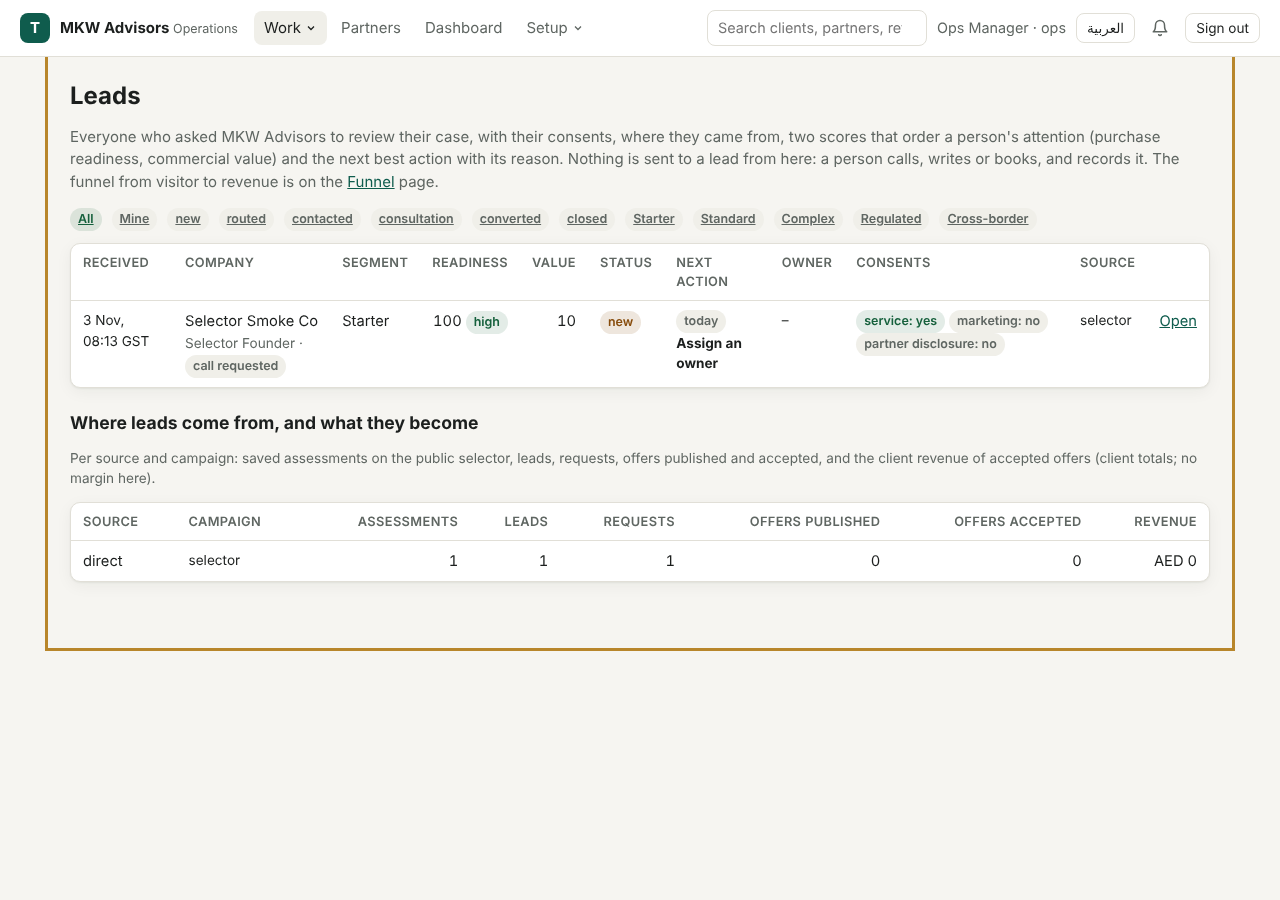
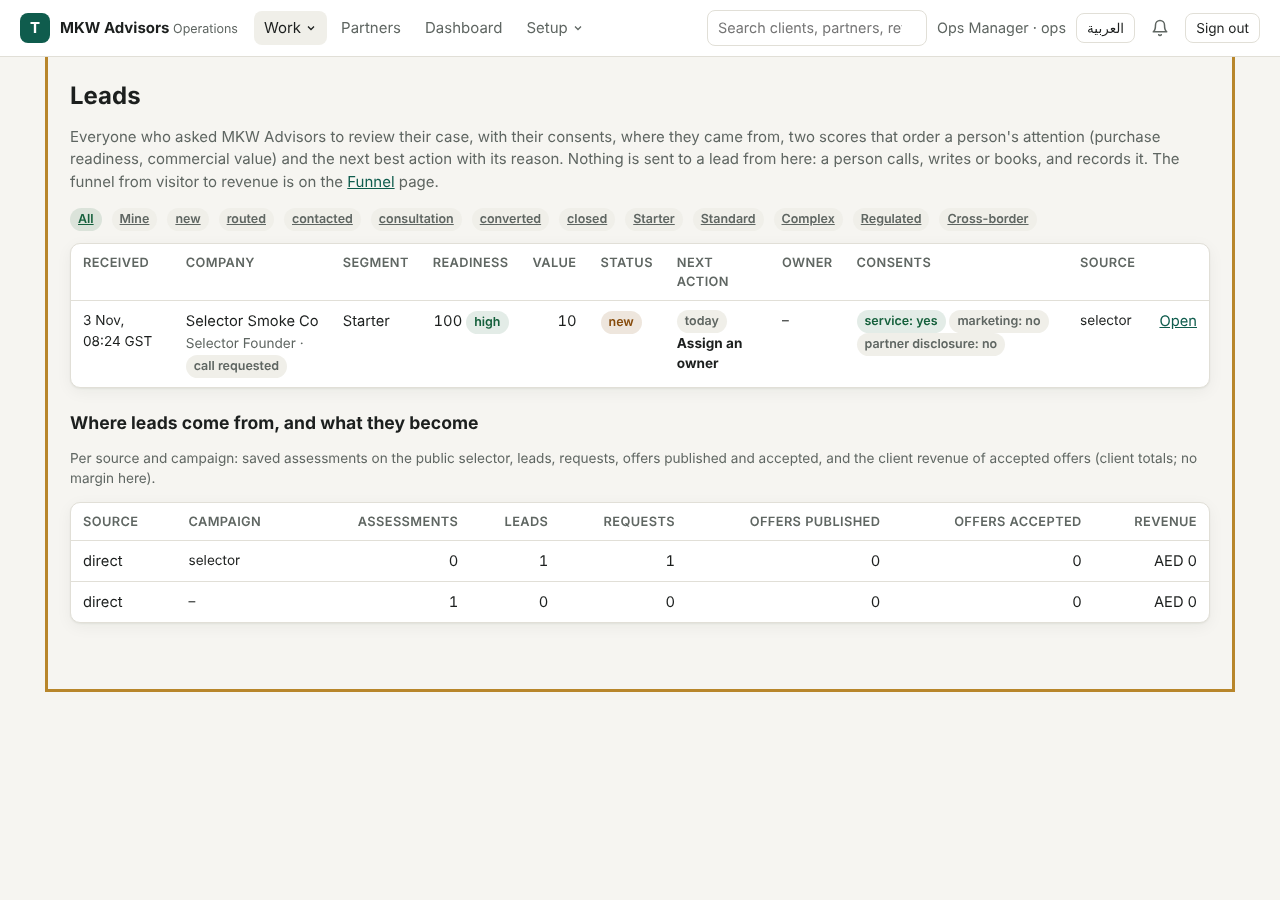
E7C review fixes: last step in order sent, one proposal per request in the pipeline, a duplicate creates and sends nothing, same saved code with changed answers is a new case, consents appended, visitor joins the funnel, start date on the lead page, retention horizon; outcome verified-pending-merge
Claude-Session: https://claude.ai/code/session_01QzEGiu7q2Qy5LpHAKh2X9v

diff --git a/apps/api/src/services/leads.ts b/apps/api/src/services/leads.ts
@@ -125,22 +125,37 @@ export async function setRouting(tx: Queryable, actor: SessionUser, routing: Rec
 /** The window in which a second review request with the same email and answers is the same lead (E7C). */
 export const DUPLICATE_WINDOW_HOURS = 24;
 
+/**
+ * E7C: a double submission (same email, same company, the same answers, within a day) is the same lead. The lookup
+ * is separate so the intake can stop before it creates a held enquiry or sends anything.
+ */
+export async function findDuplicateLead(tx: Queryable, email: string, company: string, answers: AdviceInput): Promise<{ id: string; segment: Segment; owner_user_id: string | null } | null> {
+  return (
+    (
+      await tx.query<{ id: string; segment: Segment; owner_user_id: string | null }>(
+        `select id, segment, owner_user_id from leads where email = $1 and lower(company) = lower($2) and status not in ('anonymised', 'closed', 'converted')
+           and created_at > app_now() - make_interval(hours => ${DUPLICATE_WINDOW_HOURS}) and answers = $3::jsonb order by created_at desc limit 1`,
+        [email.trim().toLowerCase(), company.trim(), JSON.stringify(answers)],
+      )
+    ).rows[0] ?? null
+  );
+}
+
 export async function createLead(tx: Queryable, input: NewLead): Promise<{ id: string; segment: Segment; owner: string | null; duplicateOf?: string }> {
   const session = await assessmentByCode(tx, input.assessmentCode);
   const score = scoreLead(input.answers, { ...input.signals, recovered: session?.recovered ?? 0, phoneGiven: input.phoneGiven, consultationRequested: !!input.consultation?.wanted });
   const email = input.email.trim().toLowerCase();
-  // E7C: a double submission (same person, same case, within a day) is one lead, not two: the existing lead takes a
-  // note and the count of asks, and nothing else is created. A different case from the same person is a new lead.
-  const dup = (
-    await tx.query<{ id: string; segment: Segment; owner_user_id: string | null }>(
-      `select id, segment, owner_user_id from leads where email = $1 and status not in ('anonymised', 'closed', 'converted') and created_at > app_now() - make_interval(hours => ${DUPLICATE_WINDOW_HOURS})
-         and (answers = $2::jsonb or ($3::uuid is not null and assessment_id = $3::uuid)) order by created_at desc limit 1`,
-      [email, JSON.stringify(input.answers), session?.id ?? null],
-    )
-  ).rows[0];
+  // A double submission is one lead: the existing lead takes a note, keeps a call request if one is added (the first
+  // times given stay), and its consents are appended as decided this time; nothing else is created.
+  const dup = await findDuplicateLead(tx, email, input.company, input.answers);
   if (dup) {
-    await tx.query("insert into lead_notes (lead_id, author_user_id, kind, body) values ($1, null, 'note', $2)", [dup.id, `Asked again with the same answers${input.consultation?.wanted ? ", and asked for a call" : ""}; counted once.`]);
+    await tx.query("insert into lead_notes (lead_id, author_user_id, kind, body) values ($1, null, 'note', $2)", [dup.id, `Asked again with the same answers${input.consultation?.wanted ? ", and asked for a call (the first preferred times are kept)" : ""}; counted once.`]);
     await tx.query("update leads set updated_at = app_now(), consultation = coalesce(consultation, $2::jsonb) where id = $1", [dup.id, input.consultation?.wanted ? JSON.stringify({ times: (input.consultation.times ?? "").slice(0, 300), at: new Date().toISOString() }) : null]);
+    const again = async (purpose: "service" | "marketing" | "partner_disclosure", given: boolean, version: string) =>
+      tx.query("insert into consents (subject_kind, subject_id, purpose, given, version, channel) values ('lead', $1, $2, $3, $4, 'public_intake')", [dup.id, purpose, given, version]);
+    await again("service", true, input.consents.service.version);
+    await again("marketing", !!input.consents.marketing?.given, input.consents.marketing?.version ?? CONSENT_TEXTS.marketing.version);
+    await again("partner_disclosure", !!input.consents.partnerDisclosure?.given, input.consents.partnerDisclosure?.version ?? CONSENT_TEXTS.partner_disclosure.version);
     await audit(tx, null, "lead.duplicate_ignored", "lead", dup.id, { withinHours: DUPLICATE_WINDOW_HOURS });
     return { id: dup.id, segment: dup.segment, owner: dup.owner_user_id, duplicateOf: dup.id };
   }
@@ -166,7 +181,8 @@ export async function createLead(tx: Queryable, input: NewLead): Promise<{ id: s
   await consent("marketing", !!input.consents.marketing?.given, input.consents.marketing?.version ?? CONSENT_TEXTS.marketing.version);
   await consent("partner_disclosure", !!input.consents.partnerDisclosure?.given, input.consents.partnerDisclosure?.version ?? CONSENT_TEXTS.partner_disclosure.version);
   if (owner) await tx.query("insert into lead_notes (lead_id, author_user_id, kind, body) values ($1, null, 'assigned', $2)", [r.id, `Routed to the owner for ${score.segment.replace("_", " ")} leads`]);
-  await audit(tx, null, "lead.created", "lead", r.id, { segment: score.segment, complexity: score.complexity, intent: score.intent, highIntent: score.highIntent, factors: score.factors, owner, session: !!session, consultation: !!input.consultation?.wanted, source: cleanAttribution(input.attribution as Record<string, unknown>) });
+  const { visitor: _v, ...auditSource } = cleanAttribution(input.attribution as Record<string, unknown>);
+  await audit(tx, null, "lead.created", "lead", r.id, { segment: score.segment, complexity: score.complexity, intent: score.intent, highIntent: score.highIntent, factors: score.factors, owner, session: !!session, consultation: !!input.consultation?.wanted, source: auditSource });
   return { id: r.id, segment: score.segment, owner };
 }
 
@@ -394,6 +410,9 @@ export async function anonymiseOldLeads(tx: Queryable, actor: SessionUser | null
   const dueLeads = `from leads l where l.status <> 'anonymised' and l.created_at < ${cutoff} and not (${BECAME_CLIENT})`;
   const dueAssessments = `from assessments a where a.status <> 'anonymised' and a.created_at < ${cutoff}
     and not exists (select 1 from leads l where l.assessment_id = a.id and (l.status = 'anonymised' or (${BECAME_CLIENT})) and l.status <> 'anonymised')`;
+  // E7C: funnel rows hold nothing personal; they are pruned on a fixed horizon (400 days) whether or not the
+  // personal-data periods are confirmed, so the table never grows without bound.
+  await tx.query("delete from funnel_events where at < app_now() - interval '400 days'");
   if (!applied) {
     const l = (await tx.query<{ n: number }>(`select count(*)::int as n ${dueLeads}`)).rows[0]!.n;
     const a = (await tx.query<{ n: number }>(`select count(*)::int as n ${dueAssessments}`)).rows[0]!.n;
@@ -406,7 +425,7 @@ export async function anonymiseOldLeads(tx: Queryable, actor: SessionUser | null
     )
   ).rows;
   for (const l of leads) await tx.query("update lead_notes set body = '' where lead_id = $1", [l.id]);
-  // E7C: funnel rows older than the period go too; they hold no personal data, and the dashboard reads live rows.
+  // E7C: with the period confirmed, funnel rows older than it go too.
   await tx.query(`delete from funnel_events where at < ${cutoff}`);
   // The held intake copy of an anonymised lead (an email that already had an account) goes with it, and leaves the
   // ops queue: nobody will act on an enquiry whose details are gone.
@@ -504,8 +523,11 @@ export async function funnelReport(tx: Queryable, actor: SessionUser) {
      v as (select source, campaign, count(*)::int as visitors, sum(case when started then 1 else 0 end)::int as started, sum(case when completed then 1 else 0 end)::int as completed,
          sum(case when viewed then 1 else 0 end)::int as viewed, sum(case when compared then 1 else 0 end)::int as compared, sum(case when printed then 1 else 0 end)::int as printed, sum(case when saved then 1 else 0 end)::int as saved
        from vis group by source, campaign),
+     lv as (select l.id, v.source as vsource, v.campaign as vcampaign from leads l join vis v on v.visitor = l.source->>'visitor'),
      ld as (
-       select coalesce(l.source->>'source', 'direct') as source, coalesce(l.source->>'campaign', '') as campaign,
+       -- A lead whose browser session was measured counts under that session's label, so the two halves meet; a
+       -- lead with no measured session (another page, a held enquiry) counts under its own recorded source.
+       select coalesce(lv.vsource, nullif(l.source->>'source', ''), 'direct') as source, coalesce(lv.vcampaign, l.source->>'campaign', '') as campaign,
          count(*)::int as leads,
          sum(case when l.consultation is not null then 1 else 0 end)::int as consultations,
          sum(case when ${QUALIFIED} then 1 else 0 end)::int as qualified,
@@ -514,8 +536,9 @@ export async function funnelReport(tx: Queryable, actor: SessionUser) {
          sum(case when exists (select 1 from engagements e where e.request_id = l.request_id) then 1 else 0 end)::int as engagements,
          coalesce(sum((select sum(f.client_total_fils) from offers f where f.request_id = l.request_id and f.status = 'accepted')), 0)::bigint as revenue_fils,
          coalesce(sum((select sum(p.amount_fils) from payments p join engagements e on e.id = p.engagement_id where e.request_id = l.request_id and p.status = 'paid')), 0)::bigint as realised_fils,
-         coalesce(sum((select sum(f.client_total_fils) from offers f where f.request_id = l.request_id and f.status = 'published')), 0)::bigint as pipeline_fils
-       from leads l where l.status <> 'anonymised' group by 1, 2)
+         -- One proposal per request: the client accepts one tier, so the pipeline counts the highest published tier once.
+         coalesce(sum((select max(f.client_total_fils) from offers f where f.request_id = l.request_id and f.status = 'published')), 0)::bigint as pipeline_fils
+       from leads l left join lv on lv.id = l.id where l.status <> 'anonymised' group by 1, 2)
      select coalesce(v.source, ld.source) as source, coalesce(v.campaign, ld.campaign) as campaign,
        coalesce(v.visitors, 0) as visitors, coalesce(v.started, 0) as started, coalesce(v.completed, 0) as completed, coalesce(v.viewed, 0) as viewed, coalesce(v.compared, 0) as compared, coalesce(v.printed, 0) as printed, coalesce(v.saved, 0) as saved,
        coalesce(ld.leads, 0) as leads, coalesce(ld.consultations, 0) as consultations, coalesce(ld.qualified, 0) as qualified, coalesce(ld.proposals, 0) as proposals, coalesce(ld.accepted, 0) as accepted, coalesce(ld.engagements, 0) as engagements,
@@ -523,7 +546,7 @@ export async function funnelReport(tx: Queryable, actor: SessionUser) {
      from v full outer join ld on ld.source = v.source and ld.campaign = v.campaign order by revenue_fils desc, leads desc, visitors desc, source, campaign`,
   );
   const abandon = await tx.query<{ key: string; n: number }>(
-    `with last as (select visitor, max(key) filter (where stage = 'step_reached') as key from funnel_events group by visitor having bool_or(stage = 'assessment_started') and not bool_or(stage = 'assessment_completed'))
+    `with last as (select visitor, (array_agg(key order by id desc) filter (where stage = 'step_reached'))[1] as key from funnel_events group by visitor having bool_or(stage = 'assessment_started') and not bool_or(stage = 'assessment_completed'))
      select coalesce(key, '(first question)') as key, count(*)::int as n from last group by 1 order by n desc`,
   );
   const outcomes = await tx.query<Record<string, unknown>>(

diff --git a/apps/api/test/funnel.test.ts b/apps/api/test/funnel.test.ts
@@ -57,18 +57,27 @@ describe("funnel measurement, qualification and the conversion dashboard (E7C)",
       env.call("anon", "POST", "/api/public/intake", { company: "Funnel Ventures", name: "F. Founder", email: "funnel-founder@example.test", consent: true, consentVersion: "2026-11-selector-v1", campaign: "nov-launch", attribution: { source: "google", campaign: "nov-launch", visitor }, assessmentCode: code, answers: { mode: "new_company", jurisdiction: "not_sure", ...answers }, consultation: { wanted: true, times: "mornings" }, ...extra });
     const leadsBefore = await count(env, "leads");
     expect((await review()).status).toBe(200);
-    expect((await review()).status).toBe(200); // the same person, the same case, a minute later
+    const after1 = { held: await count(env, "intake_leads"), emails: env.emails.length, outbox: await count(env, "outbox"), consents: await count(env, "consents") };
+    expect((await review({ marketingConsent: true })).status).toBe(200); // the same person, the same case, a minute later
     expect(await count(env, "leads")).toBe(leadsBefore + 1);
+    // Nothing else is created or sent for the repeat; the consents decided this time are appended to the one lead.
+    expect(await count(env, "intake_leads")).toBe(after1.held);
+    expect(env.emails.length).toBe(after1.emails);
+    expect(await count(env, "outbox")).toBe(after1.outbox);
+    expect(await count(env, "consents")).toBe(after1.consents + 3);
     const l = (await env.call("ops", "GET", "/api/ops/pipeline/leads")).body.find((x: any) => x.company === "Funnel Ventures");
     expect(l.source.visitor).toBe(visitor);
     expect(l.highIntent).toBe(true);
     expect(l.scoreEvidence.readiness.map((f: any) => f.factor)).toEqual(expect.arrayContaining(["budget given", "wants to start within a month", "asked for a call", "a clear activity"]));
-    expect(l.scoreEvidence.value.length).toBeGreaterThanOrEqual(0);
-    expect(10 + l.scoreEvidence.readiness.reduce((n: number, f: any) => n + f.points, 0)).toBeGreaterThanOrEqual(l.intent);
+    expect(l.scoreEvidence.readiness.length).toBeGreaterThanOrEqual(4);
+    expect(l.intent).toBe(Math.min(100, 10 + l.scoreEvidence.readiness.reduce((n: number, f: any) => n + f.points, 0)));
+    expect(l.complexity).toBe(Math.min(100, 10 + l.scoreEvidence.value.reduce((n: number, f: any) => n + f.points, 0)));
     expect(l.nextAction).toMatchObject({ action: "Assign an owner", urgent: true });
     expect(l.nextActionOverride).toBeNull();
     const detail = (await env.call("ops", "GET", `/api/ops/pipeline/leads/${l.id}`)).body;
     expect(detail.notes.some((n: any) => /Asked again with the same answers/.test(n.body))).toBe(true);
+    expect(detail.consentHistory.filter((c: any) => c.purpose === "marketing").map((c: any) => c.given)).toEqual([false, true]);
+    expect(detail.consents.marketing).toBe(true);
     expect((await asPlatform(env.db, null, (tx) => tx.query("select 1 from audit_events where action = 'lead.duplicate_ignored'"))).rows).toHaveLength(1);
     // A different case from the same person is a new lead.
     expect((await review({ assessmentCode: undefined, answers: { mode: "new_company", jurisdiction: "not_sure", ...answers, activity: "trading", visas: 5 } })).status).toBe(200);
@@ -98,14 +107,14 @@ describe("funnel measurement, qualification and the conversion dashboard (E7C)",
   });
 
   it("the funnel report follows a source from the first visit to accepted revenue, counts each stage once, and names the leads that need a person", async () => {
-    // A second visitor who starts and stops at the visas question, from a newsletter.
-    await events("v2abcdefghij", [{ stage: "visited" }, { stage: "assessment_started" }, { stage: "step_reached", key: "activity" }, { stage: "step_reached", key: "visas" }], { source: "newsletter" });
+    // A second visitor who starts and stops at the premises question (sent after visas, which sorts later), from a newsletter.
+    await events("v2abcdefghij", [{ stage: "visited" }, { stage: "assessment_started" }, { stage: "step_reached", key: "activity" }, { stage: "step_reached", key: "visas" }, { stage: "step_reached", key: "premises" }], { source: "newsletter" });
     let f = (await env.call("founder", "GET", "/api/ops/pipeline/funnel")).body;
     const g = f.bySource.find((r: any) => r.source === "google" && r.campaign === "nov-launch");
     expect(g).toMatchObject({ visitors: 1, started: 1, completed: 1, viewed: 1, saved: 1, leads: 2, consultations: 2, qualified: 2, proposals: 0, accepted: 0, engagements: 0, revenueFils: 0, realisedFils: 0, pipelineFils: 0 });
     expect(f.bySource.find((r: any) => r.source === "newsletter")).toMatchObject({ visitors: 1, started: 1, completed: 0, leads: 0 });
     expect(f.totals).toMatchObject({ visitors: 2, started: 2, completed: 1, completionRate: 50, abandonmentRate: 50, won: 0, lost: 1 });
-    expect(f.abandonment).toEqual([{ step: "visas", visitors: 1 }]);
+    expect(f.abandonment).toEqual([{ step: "premises", visitors: 1 }]);
     expect(f.lostReasons).toEqual([{ reason: "Chose another adviser", leads: 1 }]);
     expect(f.turnaround.contacted).toBe(1);
     expect(f.turnaround.toFirstContactDays).toBeGreaterThanOrEqual(0);
@@ -115,13 +124,17 @@ describe("funnel measurement, qualification and the conversion dashboard (E7C)",
     // Through Tasees: approve, build, publish, accept; the stages follow, counted once per request and offer.
     const l = (await env.call("ops", "GET", "/api/ops/pipeline/leads")).body.find((x: any) => x.company === "Funnel Ventures" && x.status === "contacted");
     expect((await env.call("ops", "POST", `/api/ops/requests/${l.requestId}/scoping/approve`, {})).status).toBe(200);
-    const built = await env.call("ops", "POST", `/api/ops/requests/${l.requestId}/build-offers`, { tiers: ["standard"] });
+    const built = await env.call("ops", "POST", `/api/ops/requests/${l.requestId}/build-offers`, { tiers: ["standard", "priority"] });
     expect(built.status, JSON.stringify(built.body)).toBe(200);
-    expect((await env.call("ops", "POST", `/api/ops/offers/${built.body.offerIds[0]}/publish`)).status).toBe(200);
+    expect(built.body.offerIds.length).toBeGreaterThanOrEqual(1);
+    for (const id of built.body.offerIds) expect((await env.call("ops", "POST", `/api/ops/offers/${id}/publish`)).status).toBe(200);
     f = (await env.call("ops", "GET", "/api/ops/pipeline/funnel")).body;
     let gg = f.bySource.find((r: any) => r.source === "google" && r.campaign === "nov-launch");
     expect(gg).toMatchObject({ proposals: 1, accepted: 0 });
-    expect(gg.pipelineFils).toBeGreaterThan(0);
+    // The pipeline counts the request once (its highest published tier), not every tier.
+    const totals = (await asPlatform(env.db, null, (tx) => tx.query<{ t: number }>("select client_total_fils::int as t from offers where request_id = $1 and status = 'published'", [l.requestId]))).rows.map((x) => Number(x.t));
+    expect(gg.pipelineFils).toBe(Math.max(...totals));
+    if (totals.length > 1) expect(gg.pipelineFils).toBeLessThan(totals.reduce((a, b) => a + b, 0));
     expect((await env.call("ops", "GET", `/api/ops/pipeline/leads/${l.id}`)).body.nextAction.action).toBe("Chase the proposal");
     expect(f.turnaround.proposed).toBe(1);
     // The founder of Funnel Ventures signs in as the new client and accepts (the review created the account).

diff --git a/apps/api/src/services/intake.ts b/apps/api/src/services/intake.ts
@@ -6,7 +6,7 @@ import type { Notifier } from "../lib/notify.ts";
 import type { AiModel } from "../lib/ai.ts";
 import { draftScopeForRequest } from "./drafts.ts";
 import { createRequest, IntakeSchema } from "./requests.ts";
-import { CONSENT_TEXTS, createLead, firstTouchAttribution } from "./leads.ts";
+import { CONSENT_TEXTS, createLead, findDuplicateLead, firstTouchAttribution } from "./leads.ts";
 import { adviseNow } from "./scoping.ts";
 import { cleanAttribution, type AdviceInput } from "@tasees/core";
 import { conflict, forbidden, notFound } from "../lib/errors.ts";
@@ -55,7 +55,8 @@ export async function publicIntake(tx: Queryable, input: PublicIntake, ip: strin
   const consent = { given: true, at: new Date().toISOString(), version: input.consentVersion, channel: "public_intake", ip };
   // First touch wins: a saved result's campaign stays with the lead and the request it becomes.
   const attribution = await firstTouchAttribution(tx, input.assessmentCode, cleanAttribution({ ...(input.attribution ?? {}), campaign: input.attribution?.campaign ?? input.campaign, referrer: input.attribution?.referrer ?? input.referrer }));
-  const source = { channel: "public_intake", campaign: attribution.campaign, referrer: attribution.referrer, phone: input.phone ? "provided" : "none", attribution };
+  const { visitor: _visitor, ...requestAttribution } = attribution;
+  const source = { channel: "public_intake", campaign: attribution.campaign, referrer: attribution.referrer, phone: input.phone ? "provided" : "none", attribution: requestAttribution };
   // What the engine makes of the answers feeds the lead's complexity: contradictions, missing facts, no viable option.
   const assessed = input.answers.mode === "new_company" ? await adviseNow(tx, input.answers as AdviceInput) : null;
   const signals = assessed ? { contradictions: assessed.contradictions?.length ?? 0, missingFacts: assessed.missingFacts?.length ?? 0, noViableOption: !!assessed.noViableOption } : {};
@@ -65,6 +66,12 @@ export async function publicIntake(tx: Queryable, input: PublicIntake, ip: strin
       consents: { service: { version: input.consentVersion }, marketing: { given: input.marketingConsent, version: CONSENT_TEXTS.marketing.version }, partnerDisclosure: { given: input.partnerDisclosureConsent, version: CONSENT_TEXTS.partner_disclosure.version } },
       consultation: input.consultation ?? null, ip, outcome,
     });
+  // E7C: the same person sending the same case again within a day is one lead and nothing else: no held enquiry, no
+  // account, no request and no email; the existing lead takes the note and the consents.
+  if (await findDuplicateLead(tx, email, company, input.answers as AdviceInput)) {
+    await lead({});
+    return { ok: true };
+  }
   const existing = (await tx.query<{ id: string }>("select id from users where email = $1", [email])).rows[0];
   if (existing) {
     // Held for a person. Nothing is written as the account holder, their consent record stays as it was, and

diff --git a/apps/web/public/js/ops.js b/apps/web/public/js/ops.js
@@ -625,13 +625,13 @@ export async function renderLead(id) {
       ${l.requestId ? `<p class="small"><a href="#/request/${l.requestId}">Open the request's scoping</a></p>` : l.intakeLeadId ? `<p class="small muted">The email already had an account; the enquiry is held in the <a href="#/agent">AI queue</a>.</p>` : ""}
     </div>
     <div class="card"><h2>What they answered</h2>
-      <table>${answer("Activity", a.activity)}${answer("Customers", words(a.customers))}${answer("Visas", a.visas)}${answer("Premises", a.premises)}${answer("Budget", a.budgetAed ? aed(a.budgetAed * 100) : null)}${answer("Emirate", a.emirate)}${answer("Place in mind", a.freeZone)}${answer("Owners", a.ownerType)}${answer("Tax resident abroad", a.foreignTaxResident === true ? "yes" : a.foreignTaxResident === false ? "no" : null)}</table>
+      <table>${answer("Activity", a.activity)}${answer("Customers", words(a.customers))}${answer("Visas", a.visas)}${answer("Premises", a.premises)}${answer("Budget", a.budgetAed ? aed(a.budgetAed * 100) : null)}${answer("Emirate", a.emirate)}${answer("Place in mind", a.freeZone)}${answer("Owners", a.ownerType)}${answer("Tax resident abroad", a.foreignTaxResident === true ? "yes" : a.foreignTaxResident === false ? "no" : null)}${answer("Wants to start", { "1_month": "within a month", "3_months": "within three months", later: "later, exploring" }[a.startWithin] ?? null)}</table>
       <p class="small muted">Segment ${esc(SEGMENT_LABEL[l.segment] ?? l.segment)}. Scores order attention; they decide nothing.</p>
     </div>
   </div>
   <div class="grid cols-2" style="margin-top:16px">
-    <div class="card"><h2>Purchase readiness ${l.intent}${l.highIntent ? ` ${badge("ok", "high")}` : ""}</h2><p class="small muted">Base 10 plus:</p>${evidenceList(l.scoreEvidence?.readiness)}</div>
-    <div class="card"><h2>Commercial value ${l.complexity}</h2><p class="small muted">Base 10 plus:</p>${evidenceList(l.scoreEvidence?.value)}</div>
+    <div class="card"><h2>Purchase readiness ${l.intent}${l.highIntent ? ` ${badge("ok", "high")}` : ""}</h2><p class="small muted">Base 10 plus the points below, capped at 100:</p>${evidenceList(l.scoreEvidence?.readiness)}</div>
+    <div class="card"><h2>Commercial value ${l.complexity}</h2><p class="small muted">Base 10 plus the points below, capped at 100:</p>${evidenceList(l.scoreEvidence?.value)}</div>
   </div>
   <form class="card next-action" data-form="lead-next-action" data-id="${l.id}" style="margin-top:16px"><h2>Next best action: ${esc(l.nextActionOverride?.action ?? l.nextAction?.action ?? "")} ${l.nextAction?.urgent && !l.nextActionOverride ? badge("warn", "today") : ""}</h2>
     <p class="small">${l.nextActionOverride ? `Set by hand: <span data-no-i18n>${esc(l.nextActionOverride.reason ?? "")}</span> (${dateTime(l.nextActionOverride.at)}). The rule suggests: <b>${esc(l.nextAction?.action ?? "")}</b>, because ${esc(l.nextAction?.why ?? "")}` : esc(l.nextAction?.why ?? "")}</p>

diff --git a/packages/core/src/leads.ts b/packages/core/src/leads.ts
@@ -38,7 +38,7 @@ export interface LeadScore {
   highIntent: boolean;
   /** Why, in a person's words (both scores together, as E4 recorded them). */
   factors: string[];
-  /** E7C: the evidence behind each score; the points of each list sum to that score less its base of 10. */
+  /** E7C: the evidence behind each score: base 10 plus these points, capped at 100 (a list can add up to more). */
   evidence: { readiness: ScoreFactor[]; value: ScoreFactor[] };
 }
 

diff --git a/apps/web/public/selector.js b/apps/web/public/selector.js
@@ -86,8 +86,6 @@ const visitor = (() => {
   } catch { return Array.from(crypto.getRandomValues(new Uint8Array(12)), (b) => "abcdefghijklmnopqrstuvwxyz0123456789"[b % 36]).join(""); }
 })();
 attribution.visitor = visitor;
-// The page's own campaign when no UTM names one, so the funnel's visitor rows and its lead rows meet on one key.
-attribution.campaign = attribution.campaign || "selector";
 let pending = [];
 let flushTimer = null;
 const sent = new Set();

diff --git a/outcomes/E7C-lead-conversion.md b/outcomes/E7C-lead-conversion.md
@@ -1,6 +1,6 @@
 # E7C Lead conversion intelligence: funnel, qualification, conversion dashboard, lead-to-Tasees regression
 
-Status: in-progress (branch `outcome/E7C-lead-conversion`, built on E7B; released by the owner on 3 Nov 2026 with the E7
+Status: verified-pending-merge (branch `outcome/E7C-lead-conversion`, built on E7B, camayank/mkw-uae-growth#25; released by the owner on 3 Nov 2026 with the E7
 contract, phase 3 "Lead generation and revenue intelligence")
 
 ## Business result
@@ -20,11 +20,13 @@ the owner intact, proven by a regression suite.
    contact detail. One row per visitor, stage and key (a unique index), so repeats never double-count. The later
    stages (consultation requested, lead, qualified, proposal issued, accepted, engagement, revenue) are derived from
    the platform's own records, never sent by the browser. The review request carries the visitor id in its
-   attribution, which joins the two halves. A measurement notice on the page says what is counted (owner wording,
-   default labelled).
-2. **Duplicate leads.** A second review request from the same email within a day with the same answers adds a note
-   to the existing lead instead of a second lead; a different case makes a new lead. Conversion events are counted
-   once per request and per offer (derived from records, so nothing can be sent twice).
+   attribution; it stays on the lead only, and the funnel joins a lead to its measured session by it. A measurement
+   notice on the page says what is counted (owner wording, default labelled).
+2. **Duplicate leads.** A second review request from the same email and company within a day with the same answers
+   adds a note and the consents decided this time to the existing lead instead of a second lead, and creates and
+   sends nothing else; a different case makes a new lead. Conversion events are counted once per request and per
+   offer (derived from records, so nothing can be sent twice); the pipeline counts a request once, at its highest
+   published tier.
 3. **Two scores with evidence** (`packages/core/src/leads.ts`): purchase readiness (budget, start date, clear
    activity, visa need, call requested, saved and returned, phone given) and commercial value (regulated activity,
    cross-border ownership, corporate owner, investment size, holding or multi-entity, industrial premises, ongoing
@@ -52,8 +54,8 @@ the owner intact, proven by a regression suite.
 
 ## Acceptance evidence
 
-- Core: scores deterministic, bounded, with evidence that sums to the score; the next best action covers every
-  status; no commercial input.
+- Core: scores deterministic, bounded, with evidence that sums to the score up to the cap; the next best action
+  covers every status; no commercial input.
 - API: events are anonymous (the row holds stage, step, source and a random id only), de-duplicated, rate-limited and
   written by nobody signed in; a double submission makes one lead; the funnel report follows a visitor from the first
   visit to accepted revenue and counts each stage once; overdue and unassigned high-intent leads are listed; the
@@ -89,4 +91,23 @@ the owner intact, proven by a regression suite.
 | Screens | `98-funnel.png` (1280 px, full page), `99-mobile-funnel.png` (390 px), `87-lead-detail.png` (scores with evidence, next best action with the override), `86-leads-pipeline.png` (the next-action column) |
 | Audit chain | `pnpm verify:audit` on the smoke demo: intact, 111 events |
 | Records | D87; KNOWN-GAPS 96–100; `docs/DESIGN.md` rows; `docs/ENTITY-PROGRAMME.md` rows and paragraph |
+
+## Independent review
+
+A separate reviewer read the whole diff before the pull request, with a throwaway probe over the test helpers and no
+repository changes. It confirmed the events hold nothing personal and write no audit or outbox row, the notice is
+accurate, the scores read no commercial input and the start date never reaches the engine, the routes and grants are
+right, and the regression suite covers each risk the contract lists. Applied before the pull request:
+- **Must-fix.** The last question reached was chosen alphabetically (now the last sent); the pipeline summed every
+  published tier of a request (now the highest, once); a duplicate submission still created a held enquiry and sent
+  the sign-in email (the duplicate check now runs first and stops everything); a changed case under the same saved
+  code was swallowed (the saved-code branch is gone: only identical answers, email and company are a duplicate).
+- **Should-fix.** The repeat's consents are appended to the one lead; the company is part of the duplicate rule; the
+  visitor id is used (the funnel joins a lead to its measured session by it) and no longer written to the request
+  or the audit payload; the page's invented "selector" campaign is gone; the lead page shows the start date; the
+  evidence wording says "capped at 100"; funnel rows are pruned on a fixed horizon whether or not retention is
+  confirmed; three assertions that could not fail were replaced and the abandonment and pipeline tests now exercise
+  the order and the tiers.
+- **Noted.** "Of visitors" can exceed 100 percent for platform stages fed from other pages; the override has no
+  status guard (harmless); finance is excluded from the funnel by choice.
 

diff --git a/docs/DECISIONS.md b/docs/DECISIONS.md
@@ -863,14 +863,19 @@ canvas of 3 Nov 2026 and its review round.)
   contact detail, and no audit or outbox row, because nobody acts on it. One row per visitor, stage and step (a
   unique index), so a repeat never counts twice. The later stages (consultation, lead, qualified, proposal, accepted,
   engagement, revenue) are derived from the platform's records, counted once per request and offer, never sent by
-  the browser. The review request carries the same id in its attribution, which joins the two halves. The page says
-  what is measured (owner wording, default labelled). Rows older than the leads retention period are deleted with the
-  retention run; they hold nothing personal, so this is housekeeping.
-- A second review request from the same email within a day with the same answers (or the same saved result) is the
-  same lead: the existing lead takes a note, keeps a call request if one is added, and nothing else is created. A
-  different case from the same person is a new lead, as before.
+  the browser; the pipeline counts a request once, at its highest published tier. The review request carries the
+  same id in its attribution; it is kept on the lead only (not on the request, not in the audit payload) and the
+  funnel joins a lead to its measured session by it, so a lead counts under the label of the session it came from.
+  The page says what is measured (owner wording, default labelled). Rows older than 400 days are deleted on every
+  retention sweep whether or not the personal-data periods are confirmed, and older than the leads period once they
+  are; they hold nothing personal, so this is housekeeping.
+- A second review request from the same email and company within a day with the same answers is the same lead: the
+  existing lead takes a note, keeps a call request if one is added (the first times given stay), has the consents
+  decided this time appended, and nothing else is created or sent: no held enquiry, no account, no request, no
+  email. A changed answer, another company or a later day is a new case and a new lead, as before.
 - The two scores keep their columns (`intent`, `complexity`) and gain their evidence: the factors and points behind
-  each, stored on the lead and shown on its page under the labels purchase readiness and commercial value. New
+  each (base 10 plus the points, capped at 100), stored on the lead and shown on its page under the labels purchase
+  readiness and commercial value. New
   factors: a start date (one optional question on the selector, read by the scores only), a clear activity,
   investment size, expected revenue, a payroll. The segments are unchanged.
 - The next best action is a rule over the lead's state (status, readiness, call request, owner, follow-ups, what the

diff --git a/docs/KNOWN-GAPS.md b/docs/KNOWN-GAPS.md
@@ -265,7 +265,9 @@ in a browser; everything listed here is not.
 ## E7C: lead conversion intelligence
 
 96. **Funnel figures start at zero on the pilot's first day** and only count what the public page sends; a visitor
-    whose browser blocks session storage or scripts is not counted. Nothing is estimated to fill the gap.
+    whose browser blocks session storage or scripts is not counted. Nothing is estimated to fill the gap. The rate
+    limit on the events endpoint is per IP (300 batches per quarter hour), so a large office behind one address can
+    lose events silently; the page never retries.
 97. **"Qualified" is a definition, not a judgement**: high readiness (60 or more), or a person moved the lead to
     consultation or converted, or contacted with a request open (`QUALIFIED` in `services/leads.ts`). The pilot's
     conversions should decide whether the threshold is right; the scores themselves stay heuristics (gap 70).
